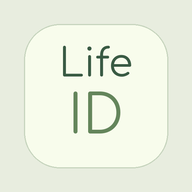
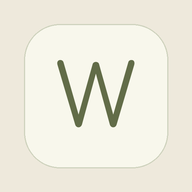
Rename Woman and simplify blurred navigation with compact orange affirmations

Changed region(s): [[0.2812, 0.2188, 0.7188, 0.7188]]

diff --git a/index.html b/index.html
@@ -1,6 +1,6 @@
 <!doctype html>
-<html lang="ru"><head><meta charset="utf-8"><meta name="viewport" content="width=device-width, initial-scale=1, viewport-fit=cover"><meta name="theme-color" content="#eee9dc"><meta name="description" content="Life ID — дневник заботы о себе"><link rel="manifest" href="./manifest.webmanifest"><link rel="icon" href="./icon.svg"><link rel="apple-touch-icon" href="./icon-192.png"><link rel="stylesheet" href="./style.css"><link rel="stylesheet" href="./mobile.css"><link rel="stylesheet" href="./capture.css"><link rel="stylesheet" href="./profile.css"><link rel="stylesheet" href="./aesthetic.css"><link rel="stylesheet" href="./garden.css"><link rel="stylesheet" href="./linen.css"><link rel="stylesheet" href="./wet-glass.css"><title>Life ID — подари внимание себе</title></head>
-<body><div class="app-backdrop" aria-hidden="true"><img src="./assets/olive-leaves.webp?background=23" alt="" width="1024" height="1536" fetchpriority="high" decoding="async"></div><div class="layout"><aside class="sidebar"><a class="logo brand-logo" href="#home" aria-label="Life ID — дневник">Life <span class="brand-id">ID</span></a><p class="tagline">Подари внимание себе</p><nav data-menu="profile" aria-label="Разделы профиля"><a href="#account"><span class="menu-icon" aria-hidden="true">◉</span><span>Аккаунт</span></a><a href="#settings"><span class="menu-icon" aria-hidden="true">⚙</span><span>Настройки</span></a><a href="#subscription"><span class="menu-icon" aria-hidden="true">◇</span><span>Подписка</span></a><a href="#devices"><span class="menu-icon" aria-hidden="true">⌁</span><span>Подключённые девайсы</span></a></nav><nav data-menu="diary" aria-label="Разделы дневника" hidden><a href="#profile" aria-label="Обо мне"><span data-short="Обо мне">Обо мне</span></a><a href="#home" aria-label="Мой день">◌ <span data-short="Сегодня">Мой день</span></a><a href="#cycle" aria-label="Мой цикл">✿ <span data-short="Цикл">Мой цикл</span></a><a href="#sleep" aria-label="Сон и отдых">☾ <span data-short="Сон">Сон и отдых</span></a><a href="#food" aria-label="Питание">♧ <span data-short="Питание">Питание</span></a><a href="#activity" aria-label="Активность и заметки"><span data-short="Ещё">Активность и заметки</span></a></nav><nav data-menu="library" aria-label="Разделы библиотеки" hidden><a href="#library"><span>Библиотека</span></a></nav><nav data-menu="friends" aria-label="Разделы друзей" hidden><a href="#friends"><span>Друзья</span></a></nav><div class="sidebar-note">Место, где можно<br>прислушаться к себе.<span>Твои данные остаются<br>в этом браузере.</span></div></aside>
+<html lang="ru"><head><meta charset="utf-8"><meta name="viewport" content="width=device-width, initial-scale=1, viewport-fit=cover"><meta name="theme-color" content="#eee9dc"><meta name="description" content="Woman — дневник заботы о себе"><link rel="manifest" href="./manifest.webmanifest"><link rel="icon" href="./icon.svg"><link rel="apple-touch-icon" href="./icon-192.png"><link rel="stylesheet" href="./style.css"><link rel="stylesheet" href="./mobile.css"><link rel="stylesheet" href="./capture.css"><link rel="stylesheet" href="./profile.css"><link rel="stylesheet" href="./aesthetic.css"><link rel="stylesheet" href="./garden.css"><link rel="stylesheet" href="./linen.css"><link rel="stylesheet" href="./clear-glass.css"><title>Woman — подари внимание себе</title></head>
+<body><div class="app-backdrop" aria-hidden="true"><img src="./assets/olive-leaves.webp?background=23" alt="" width="1024" height="1536" fetchpriority="high" decoding="async"></div><div class="layout"><aside class="sidebar"><a class="logo brand-logo" href="#home" aria-label="Woman — дневник">Woman</a><p class="tagline">Подари внимание себе</p><nav data-menu="profile" aria-label="Разделы профиля"><a href="#account"><span class="menu-icon" aria-hidden="true">◉</span><span>Аккаунт</span></a><a href="#settings"><span class="menu-icon" aria-hidden="true">⚙</span><span>Настройки</span></a><a href="#subscription"><span class="menu-icon" aria-hidden="true">◇</span><span>Подписка</span></a><a href="#devices"><span class="menu-icon" aria-hidden="true">⌁</span><span>Подключённые девайсы</span></a></nav><nav data-menu="diary" aria-label="Разделы дневника" hidden><a href="#profile" aria-label="Обо мне"><span data-short="Обо мне">Обо мне</span></a><a href="#home" aria-label="Мой день">◌ <span data-short="Сегодня">Мой день</span></a><a href="#cycle" aria-label="Мой цикл">✿ <span data-short="Цикл">Мой цикл</span></a><a href="#sleep" aria-label="Сон и отдых">☾ <span data-short="Сон">Сон и отдых</span></a><a href="#food" aria-label="Питание">♧ <span data-short="Питание">Питание</span></a><a href="#activity" aria-label="Активность и заметки"><span data-short="Ещё">Активность и заметки</span></a></nav><nav data-menu="library" aria-label="Разделы библиотеки" hidden><a href="#library"><span>Библиотека</span></a></nav><nav data-menu="friends" aria-label="Разделы друзей" hidden><a href="#friends"><span>Друзья</span></a></nav><div class="sidebar-note">Место, где можно<br>прислушаться к себе.<span>Твои данные остаются<br>в этом браузере.</span></div></aside>
 <main><header><time id="today"></time><span class="badge" id="connection">На связи</span></header><section data-main-view="diary" id="profile" class="card profile-card"><h1>Обо мне</h1>
 <form id="profile-form" class="profile-sections">
 <div class="profile-basics"><div class="profile-fields profile-basic-fields"><label class="about-label">Имя<input id="profile-name" maxlength="60" required autocomplete="given-name"></label><div class="birth-group" role="group" aria-labelledby="birth-label"><span id="birth-label" class="about-label">Дата рождения</span><input id="profile-birthDate" type="hidden"><div class="birth-parts">
@@ -20,7 +20,7 @@
 <p class="fine">Фертильность нельзя определить по календарю или регулярности менструаций. Эти сведения не обозначают «безопасные дни» и не подходят для контрацепции. При отсутствии менструаций или изменениях цикла нужна консультация с врачом.</p><p id="profile-cycle-note" class="fine"></p></div></fieldset>
 <fieldset class="profile-group"><legend>Тело</legend><div id="profile-body-fields" class="profile-fields"></div><div class="profile-bmi"><span>Индекс массы тела (ИМТ)</span><output id="profile-bmi" aria-live="polite">—</output></div><p class="fine">ИМТ = вес в килограммах / рост в метрах². Это расчётный показатель без оценки «нормы»: для детей, беременности и спортсменов нужна отдельная интерпретация.</p><details class="reference-details"><summary>О показателях состава тела</summary><p class="fine">Переноси показатели из измерений, если они есть. Уровень висцерального жира зависит от шкалы прибора; значения разных приборов могут быть несопоставимы. Биоимпедансные оценки зависят от гидратации и других условий. Костная масса на весах не заменяет оценку плотности костей, а «биологический возраст» не является диагнозом. Основной обмен не равен общей потребности в калориях. Эти значения не рассчитываются автоматически.</p></details></fieldset>
 <button type="submit">Сохранить профиль</button></form><p id="profile-error" class="error" role="alert"></p><p id="profile-summary" class="fine" role="status"></p><p id="profile-advice" class="callout"></p><details class="reference-details"><summary>Источники ориентиров питания</summary><p class="fine">DRI (RDA/AI), для натрия и калия — обновление 2019 года. Это не верхние допустимые уровни и не назначения добавок. Для процентов нужны дата рождения и пол для таблиц. Для детей младше года и беременности/лактации вне возраста 14–50 лет автоматические ориентиры не рассчитываются. Вес не используется как множитель норм витаминов. Индивидуальные заболевания и назначения врача здесь не учитываются.</p><a class="text-link" href="https://ods.od.nih.gov/HealthInformation/nutrientrecommendations.aspx" target="_blank" rel="noopener">Таблицы DRI ↗</a></details></section>
-<section data-main-view="diary" id="home" class="welcome"><span class="eyebrow">Подари внимание себе</span><div class="affirmation-meta"><span>АФФИРМАЦИЯ ДНЯ</span></div><h1 id="daily-affirmation">Я достойна любви и заботы — в том числе своей собственной.</h1><p>Пусть сегодня найдётся немного времени на то, что наполняет именно тебя.</p></section>
+<section data-main-view="diary" id="home" class="welcome"><span class="eyebrow">Подари внимание себе</span><div class="affirmation-meta"><span>АФФИРМАЦИЯ ДНЯ</span></div><h1 id="daily-affirmation">Я достойна любви и заботы.</h1><p>Пусть сегодня найдётся немного времени на то, что наполняет именно тебя.</p></section>
 <div class="overview" data-main-view="diary"><a href="#cycle" class="mini pink"><span>МОЙ ЦИКЛ →</span><strong id="cycle-summary">Познакомимся?</strong><p id="cycle-sub">Отметь начало последней менструации</p></a><a href="#sleep" class="mini lavender"><span>СОН И ОТДЫХ →</span><strong id="sleep-summary">Время отдохнуть</strong><p id="sleep-sub">Ночной сон и маленькие паузы днём</p></a><a href="#food" class="mini green"><span>ПИТАНИЕ →</span><strong id="food-summary">Забота в тарелке</strong><p>Питательные вещества, а не строгие правила</p></a></div>
 <section data-main-view="diary" id="cycle" class="section"><div class="section-title"><div><span class="eyebrow">01 / ПРИСЛУШАТЬСЯ К ТЕЛУ</span><h2>Мой цикл</h2></div><span class="pill">Каждый цикл индивидуален</span></div><div class="cycle-grid"><article class="card"><div class="calendar-title"><button id="prev-month" aria-label="Предыдущий месяц" class="icon-button">←</button><h3 id="month-title"></h3><button id="next-month" aria-label="Следующий месяц" class="icon-button">→</button></div><div class="weekdays" aria-hidden="true"><span>ПН</span><span>ВТ</span><span>СР</span><span>ЧТ</span><span>ПТ</span><span>СБ</span><span>ВС</span></div><div id="calendar" class="calendar" aria-label="Календарь цикла"></div><div class="legend"><span><i class="menstrual"></i>Менструация</span><span><i class="follicular"></i>Фолликулярная</span><span><i class="ovulation"></i>Овуляция ≈</span><span><i class="luteal"></i>Лютеиновая</span></div><p class="fine">Цвета — расчётная схема, а не подтверждение фаз. Менструация биологически входит в фолликулярную фазу.</p></article><article class="card phase-card"><span class="eyebrow" id="selected-date"></span><h3 id="phase-title">У каждого тела свой ритм</h3><p id="phase-description">Добавь дату начала менструации. Здесь появятся примерный день цикла и мягкие подсказки.</p><div id="phase-tips"></div><div class="callout">Прогноз по датам не подтверждает овуляцию и не подходит для контрацепции. При нерегулярном цикле, беременности и гормональной контрацепции он может быть неприменим.</div></article></div>
 <article class="card settings"><form id="cycle-form"><label>Начало менструации<input id="period-start" type="date" required></label><label>Обычная длина цикла, дней<input id="cycle-length" type="number" min="21" max="45" value="28" required></label><label>Менструация, дней<input id="period-length" type="number" min="1" max="10" value="5" required></label><button type="submit">Отметить начало</button></form><p class="fine">Настройки прогноза: цикл 21–45 дней, менструация до 10 дней. Это диапазон модели, а не оценка здоровья. При сильной боли или необычно обильном кровотечении обратись за медицинской помощью.</p><div id="period-history" class="history"></div></article></section>
@@ -39,4 +39,4 @@
 <section id="devices" class="section card view-panel" data-main-view="profile" hidden><h2>Подключённые девайсы</h2><div class="empty-view"><span class="empty-symbol" aria-hidden="true">⌁</span><h3>Здесь будут твои устройства</h3><p>Подключение часов, фитнес-браслетов и умных весов пока не доступно. Автоматический импорт измерений ещё не подключён.</p></div><a class="text-link" href="#profile">Внести показатели тела вручную →</a></section>
 <section id="library" class="section card view-panel" data-main-view="library" hidden><span class="eyebrow">УЗНАВАТЬ И ПОНИМАТЬ СЕБЯ</span><h2>Библиотека</h2><div class="empty-view"><span class="empty-symbol" aria-hidden="true">▤</span><h3>Место для полезных материалов</h3><p>Библиотека пока пуста. Здесь появятся материалы о питании, сне и самочувствии.</p></div></section>
 <section id="friends" class="section card view-panel" data-main-view="friends" hidden><span class="eyebrow">РЯДОМ ДРУГ С ДРУГОМ</span><h2>Друзья</h2><div class="empty-view"><span class="empty-symbol" aria-hidden="true">♧</span><h3>Твоё пространство общения</h3><p>Раздел подготовлен. Добавление друзей и общение пока недоступны.</p></div></section>
-<footer><span>Life ID. С вниманием к себе.</span><button id="export-data" class="secondary">Скачать мои данные</button><button id="install" class="secondary" hidden>Установить приложение</button></footer><details class="privacy-details"><summary>Приватность и ограничения</summary><p class="privacy">Это первая версия дневника, не медицинский сервис. Записи дневника не отправляются на сервер и не синхронизируются. При поиске в Open Food Facts передаётся только поисковый запрос. При голосовом вводе браузер может передавать звук своему сервису распознавания; приложение не хранит аудио. Очистка браузера удалит записи — сохраняй резервную копию. Не используй общий профиль браузера для личных данных.</p></details><p id="notice" class="error" role="status"></p></main></div><nav class="bottom-nav" aria-label="Основная навигация"><a href="#account" data-view="profile"><svg viewBox="0 0 24 24" aria-hidden="true"><circle cx="12" cy="7" r="4"/><path d="M4 22v-3a8 8 0 0 1 16 0v3"/></svg><span>Профиль</span></a><a href="#home" data-view="diary"><svg viewBox="0 0 24 24" aria-hidden="true"><path d="M6 3h13v18H6a3 3 0 0 1-3-3V6a3 3 0 0 1 3-3ZM6 3v18M10 8h5M10 12h5"/></svg><span>Дневник</span></a><a href="#capture" data-view="capture" class="capture-tab"><svg viewBox="0 0 24 24" aria-hidden="true"><rect x="9" y="2" width="6" height="12" rx="3"/><path d="M5 10v2a7 7 0 0 0 14 0v-2M12 19v3M8 22h8"/></svg><span>Голосовая запись</span></a><a href="#library" data-view="library"><svg viewBox="0 0 24 24" aria-hidden="true"><path d="M3 4h6a5 5 0 0 1 3 1 5 5 0 0 1 3-1h6v16h-6a5 5 0 0 0-3 1 5 5 0 0 0-3-1H3ZM12 5v16"/></svg><span>Библиотека</span></a><a href="#friends" data-view="friends"><svg viewBox="0 0 24 24" aria-hidden="true"><circle cx="9" cy="7" r="3"/><path d="M2 21v-3a7 7 0 0 1 14 0v3M16 4a3 3 0 0 1 0 6M18 14a5 5 0 0 1 4 5v2"/></svg><span>Друзья</span></a></nav><script src="./profile-model.js" defer></script><script src="./profile.js" defer></script><script src="./norms.js" defer></script><script src="./app.js" defer></script><script src="./profile-parser.js" defer></script><script src="./capture-parser.js" defer></script><script src="./voice.js" defer></script><script src="./capture.js" defer></script><script src="./daily-affirmation.js" defer></script><script src="./navigation.js" defer></script></body></html>
+<footer><span>Woman. С вниманием к себе.</span><button id="export-data" class="secondary">Скачать мои данные</button><button id="install" class="secondary" hidden>Установить приложение</button></footer><details class="privacy-details"><summary>Приватность и ограничения</summary><p class="privacy">Это первая версия дневника, не медицинский сервис. Записи дневника не отправляются на сервер и не синхронизируются. При поиске в Open Food Facts передаётся только поисковый запрос. При голосовом вводе браузер может передавать звук своему сервису распознавания; приложение не хранит аудио. Очистка браузера удалит записи — сохраняй резервную копию. Не используй общий профиль браузера для личных данных.</p></details><p id="notice" class="error" role="status"></p></main></div><nav class="bottom-nav" aria-label="Основная навигация"><a href="#account" data-view="profile"><svg viewBox="0 0 24 24" aria-hidden="true"><circle cx="12" cy="7" r="4"/><path d="M4 22v-3a8 8 0 0 1 16 0v3"/></svg><span>Профиль</span></a><a href="#home" data-view="diary"><svg viewBox="0 0 24 24" aria-hidden="true"><path d="M6 3h13v18H6a3 3 0 0 1-3-3V6a3 3 0 0 1 3-3ZM6 3v18M10 8h5M10 12h5"/></svg><span>Дневник</span></a><a href="#capture" data-view="capture" class="capture-tab"><svg viewBox="0 0 24 24" aria-hidden="true"><rect x="9" y="2" width="6" height="12" rx="3"/><path d="M5 10v2a7 7 0 0 0 14 0v-2M12 19v3M8 22h8"/></svg><span>Голосовая запись</span></a><a href="#library" data-view="library"><svg viewBox="0 0 24 24" aria-hidden="true"><path d="M3 4h6a5 5 0 0 1 3 1 5 5 0 0 1 3-1h6v16h-6a5 5 0 0 0-3 1 5 5 0 0 0-3-1H3ZM12 5v16"/></svg><span>Библиотека</span></a><a href="#friends" data-view="friends"><svg viewBox="0 0 24 24" aria-hidden="true"><circle cx="9" cy="7" r="3"/><path d="M2 21v-3a7 7 0 0 1 14 0v3M16 4a3 3 0 0 1 0 6M18 14a5 5 0 0 1 4 5v2"/></svg><span>Друзья</span></a></nav><script src="./profile-model.js" defer></script><script src="./profile.js" defer></script><script src="./norms.js" defer></script><script src="./app.js" defer></script><script src="./profile-parser.js" defer></script><script src="./capture-parser.js" defer></script><script src="./voice.js" defer></script><script src="./capture.js" defer></script><script src="./daily-affirmation.js" defer></script><script src="./navigation.js" defer></script></body></html>

diff --git a/daily-affirmation.js b/daily-affirmation.js
@@ -2,37 +2,37 @@
 'use strict';
 (() => {
  const phrases=Object.freeze([
- 'Я достойна любви и заботы — в том числе своей собственной.',
- 'Я могу выбирать свой ритм и бережно относиться к себе.',
- 'Моя ценность не зависит от того, сколько я успела сегодня.',
- 'Я разрешаю себе отдыхать и восстанавливать силы.',
- 'Я учусь слышать своё тело с вниманием и добротой.',
- 'Мне не нужно быть идеальной, чтобы любить себя.',
- 'Я могу говорить о своих потребностях и просить поддержки.',
- 'Сегодня я выбираю быть на своей стороне.',
- 'Моим чувствам есть место, и я могу относиться к ним бережно.',
- 'Я заслуживаю уважения — и от других, и от себя.',
- 'Я могу заботиться о себе маленькими шагами.',
- 'Моё тело заслуживает заботы без сравнений и критики.',
- 'Я разрешаю себе меняться и узнавать себя заново.',
- 'Я могу поставить паузу и спросить себя: что мне сейчас нужно?',
- 'Я благодарна себе за каждый шаг навстречу своему благополучию.',
- 'Мне можно выбирать то, что поддерживает именно меня.',
- 'Я могу быть мягкой к себе и уверенной в своих границах.',
- 'Я принимаю себя не только в сильные, но и в уязвимые дни.',
- 'Я оставляю место для радости в своём обычном дне.',
- 'Сегодня достаточно одного доброго поступка по отношению к себе.',
- 'Я имею право на своё пространство, время и тишину.',
- 'Я могу замечать свои достижения без обесценивания.',
- 'Я достойна заботы на каждом этапе своей жизни.',
- 'Я выбираю поддерживать себя добрыми словами.',
- 'Я могу отпускать ожидания, которые мне больше не подходят.',
- 'Я разрешаю себе получать удовольствие от простых вещей.',
- 'У меня есть право сказать «нет» и сохранить свои силы.',
- 'Я могу идти своим путём, не сравнивая его с чужим.',
- 'Моё внимание к себе — ценно, даже если это всего несколько минут.',
- 'Я заслуживаю отношений с собой, в которых есть тепло.',
- 'Сегодня я могу начать с заботы, а не с требований к себе.'
+ 'Я достойна любви и заботы.',
+ 'Я выбираю свой ритм.',
+ 'Моя ценность — во мне.',
+ 'Мне можно отдыхать.',
+ 'Я слышу своё тело.',
+ 'Мне можно быть собой.',
+ 'Я могу просить поддержки.',
+ 'Я на своей стороне.',
+ 'Мои чувства важны.',
+ 'Я заслуживаю уважения.',
+ 'Я забочусь о себе.',
+ 'Моё тело достойно заботы.',
+ 'Мне можно меняться.',
+ 'Я выбираю бережность.',
+ 'Я благодарна себе.',
+ 'Я выбираю то, что мне близко.',
+ 'Моя мягкость — моя сила.',
+ 'Я принимаю себя разной.',
+ 'Я оставляю место радости.',
+ 'Сегодня я добра к себе.',
+ 'Мне можно выбирать тишину.',
+ 'Мои достижения важны.',
+ 'Я достойна заботы всегда.',
+ 'Я говорю с собой по-доброму.',
+ 'Я отпускаю чужие ожидания.',
+ 'Я замечаю простые радости.',
+ 'Мои границы важны.',
+ 'Я иду своим путём.',
+ 'Моё внимание к себе ценно.',
+ 'Я отношусь к себе с теплом.',
+ 'Я выбираю заботу о себе.'
  ]);
  function dayKey(date){return `${date.getFullYear()}-${String(date.getMonth()+1).padStart(2,'0')}-${String(date.getDate()).padStart(2,'0')}`;}
  function forDate(date){const n=Math.floor(Date.UTC(date.getFullYear(),date.getMonth(),date.getDate())/86400000);return phrases[((n%phrases.length)+phrases.length)%phrases.length];}

diff --git a/clear-glass.css b/clear-glass.css
@@ -1,0 +1,9 @@
+/* Woman: a blurred piece of the actual background, without drops or a milky panel. */
+:root{--affirmation-orange:#c85c18;--muted:#424a35}
+.sidebar{position:sticky;background:transparent;border:0;box-shadow:none;backdrop-filter:blur(28px);-webkit-backdrop-filter:blur(28px);color:#fffdf0;isolation:isolate}.sidebar:before,.sidebar:after{display:none;content:none}.sidebar .logo.brand-logo{font-family:Nunito,Arial,sans-serif;font-size:36px;font-weight:500;letter-spacing:-1px;color:#fffdf0;text-shadow:0 1px 4px #162012bf}.sidebar .tagline{font-family:Nunito,Arial,sans-serif;font-size:12px;font-weight:650;letter-spacing:.02em;line-height:1.6;text-transform:none;color:#fffdf0;text-shadow:0 1px 3px #172013}.sidebar nav a{font-size:16px;color:#fffdf0;border-color:transparent}.sidebar nav a span:not(.menu-icon){font-size:14px;font-weight:650;color:inherit}.sidebar nav a.active{background:#ffffe51f;color:#fffef2;border-color:#ffffef5c;box-shadow:none}.sidebar nav a:hover{background:#ffffe51a}.sidebar nav a:not(.active){text-shadow:0 1px 3px #14200f}.sidebar-note,.sidebar-note span{color:#fffdf0;text-shadow:0 1px 3px #172013}
+body main>header,body[data-view=profile] main>header,body[data-section=profile] main>header{position:relative;display:flex;align-items:center;justify-content:space-between;flex-wrap:wrap;gap:8px 16px;background:transparent;border:0;border-radius:0;box-shadow:none;backdrop-filter:none;-webkit-backdrop-filter:none;padding:8px 2px;margin:0 0 18px}body main>header:before,body main>header:after{display:none;content:none}#today{color:var(--affirmation-orange);font-size:16px;line-height:1.6;font-weight:800;letter-spacing:.01em;text-shadow:0 1px 2px #111a0c,0 0 5px #ffb568,0 0 12px #ff922b99,0 0 23px #f18e2c66}#connection{background:transparent;border:0;box-shadow:none;padding:5px 0;color:#fffef0;font-size:12px;font-weight:750;white-space:nowrap;text-shadow:0 1px 3px #172013}#connection:before{color:#cad9a5;text-shadow:0 0 5px #c8e4a6}
+.fine,.muted,.privacy,.profile-card .fine,.reference-details>summary,.privacy-details>summary{font-size:14px;line-height:1.75;color:var(--muted)}label,.profile-group label{font-weight:600;line-height:1.5;color:#404b31}.profile-card .about-label,.profile-card .profile-group>legend{font-weight:700;color:#354229}.welcome p,.mini p,.phase-card>p,.tip p{font-size:15px;line-height:1.7;color:#424a35}.mini>span,.eyebrow{font-weight:700}.mini.green p,.mini.green>span{color:#fffdf2}.voice-card>summary{font-weight:700}.voice-body .fine,.voice-privacy{font-size:14px!important;color:#424a35}.nutrient-label{font-size:15px;color:#35472c}.nutrient-note,.nutrient-source,.nutrient-subtype{font-size:13px;color:#485539}.record{font-size:15px}.bottom-nav a span{font-weight:750}
+#home #daily-affirmation{font-family:'Cormorant Garamond',Georgia,serif;font-style:italic;font-size:clamp(30px,3.1vw,43px);font-weight:500;line-height:1.22;letter-spacing:.01em;color:var(--affirmation-orange);text-shadow:none;-webkit-text-stroke:0;margin:20px 0 22px;max-width:38ch;text-wrap:balance;overflow-wrap:normal;word-break:normal}.affirmation-meta>span{font-size:11px;font-weight:750;color:#434f32;letter-spacing:.12em}.affirmation-meta{margin-top:22px}
+@media(max-width:767px),(max-width:1023px) and (pointer:coarse){.sidebar{position:sticky;background:transparent;border:0}.sidebar .logo.brand-logo{font-size:29px}.sidebar .tagline{display:none}.sidebar nav a{font-size:0}.sidebar nav a span:not(.menu-icon){font-size:13px;font-weight:700}.sidebar nav[data-menu=diary] a span:not(.menu-icon){font-size:0}.sidebar nav[data-menu=diary] a span:after{font-size:13px}.sidebar nav[data-menu=profile] a span{font-size:13px}#today{font-size:14px;letter-spacing:0}#connection{font-size:11px}.fine,.muted,.privacy,.profile-card .fine{font-size:14px}.welcome p,.mini p{font-size:14px}#home #daily-affirmation{font-size:30px;line-height:1.22;letter-spacing:0;max-width:none;margin:19px 0 21px}.affirmation-meta>span{font-size:10px}}
+@supports not (backdrop-filter:blur(1px)){.sidebar{background:#263021e6}}
+@media(prefers-reduced-transparency:reduce){.sidebar{background:#263021;backdrop-filter:none;-webkit-backdrop-filter:none}}

diff --git a/sw.js b/sw.js
@@ -1,5 +1,5 @@
-const CACHE='luna-diary-v24';
-const ASSETS=['./','./index.html','./style.css','./mobile.css','./capture.css','./profile.css','./aesthetic.css','./garden.css','./linen.css','./wet-glass.css','./assets/water-droplets.svg','./assets/linen-olive.webp','./assets/olive-leaves.webp','./assets/olive-leaves.webp?background=23','./assets/fonts/CormorantGaramond-Italic.woff','./daily-affirmation.js','./assets/garden-spa.webp','./assets/fonts/Nunito.woff','./assets/fonts/Comfortaa.ttf','./assets/fonts/Caveat.woff','./assets/mineral-landscape.svg','./assets/fonts/Manrope.woff','./assets/fonts/CormorantGaramond.woff','./profile-model.js','./profile.js','./capture-parser.js','./capture.js','./app.js','./voice.js','./navigation.js','./profile-parser.js','./norms.js','./manifest.webmanifest','./icon.svg','./icon-192.png','./icon-512.png'];
+const CACHE='luna-diary-v25';
+const ASSETS=['./','./index.html','./style.css','./mobile.css','./capture.css','./profile.css','./aesthetic.css','./garden.css','./linen.css','./clear-glass.css','./assets/linen-olive.webp','./assets/olive-leaves.webp','./assets/olive-leaves.webp?background=23','./assets/fonts/CormorantGaramond-Italic.woff','./daily-affirmation.js','./assets/garden-spa.webp','./assets/fonts/Nunito.woff','./assets/fonts/Comfortaa.ttf','./assets/fonts/Caveat.woff','./assets/mineral-landscape.svg','./assets/fonts/Manrope.woff','./assets/fonts/CormorantGaramond.woff','./profile-model.js','./profile.js','./capture-parser.js','./capture.js','./app.js','./voice.js','./navigation.js','./profile-parser.js','./norms.js','./manifest.webmanifest','./icon.svg','./icon-192.png','./icon-512.png'];
 self.addEventListener('install',event=>{event.waitUntil(caches.open(CACHE).then(cache=>cache.addAll(ASSETS.map(path=>new Request(new URL(path,self.location.href),{cache:'reload'})))).then(()=>self.skipWaiting()));});
 self.addEventListener('activate',event=>{event.waitUntil(caches.keys().then(keys=>Promise.all(keys.filter(key=>(key.startsWith('little-steps-')||key.startsWith('luna-diary-'))&&key!==CACHE).map(key=>caches.delete(key)))).then(()=>self.clients.claim()));});
 // Refresh the document online; keep a complete local fallback for offline navigation.

diff --git a/app.js b/app.js
@@ -184,7 +184,7 @@ for(const ml of [100,200,250,300,500]){const button=textEl('button',ml+' мл');
 $('#water-container').onchange=()=>{const type=$('#water-container').value;state.waterSettings.container=type;$('#water-volume').value=state.waterSettings[type];save();};$('#water-volume').onchange=rememberWaterVolume;
 $('#water-form').onsubmit=e=>{e.preventDefault();const ml=Number($('#water-volume').value),container=$('#water-container').value,date=$('#food-date').value;if(!date||!Number.isInteger(ml)||ml<1||ml>10000)return;state.waterSettings.container=container;state.waterSettings[container]=ml;state.water.push({id:crypto.randomUUID(),date,ml,container});save();};
 
-$('#export-data').onclick=()=>{const url=URL.createObjectURL(new Blob([JSON.stringify(state,null,2)],{type:'application/json'}));const a=document.createElement('a');a.href=url;a.download=`life-id-diary-${today}.json`;a.click();setTimeout(()=>URL.revokeObjectURL(url),1000);};
+$('#export-data').onclick=()=>{const url=URL.createObjectURL(new Blob([JSON.stringify(state,null,2)],{type:'application/json'}));const a=document.createElement('a');a.href=url;a.download=`woman-diary-${today}.json`;a.click();setTimeout(()=>URL.revokeObjectURL(url),1000);};
 function connection(){$('#connection').textContent=navigator.onLine?'На связи':'Без интернета';}window.addEventListener('online',connection);window.addEventListener('offline',connection);connection();
 let prompt;window.addEventListener('beforeinstallprompt',e=>{e.preventDefault();prompt=e;$('#install').hidden=false;});$('#install').onclick=async()=>{if(prompt){await prompt.prompt();prompt=null;$('#install').hidden=true;}};
 function updateNavigation(){window.LunaNavigation?.refresh();}window.addEventListener('hashchange',updateNavigation);

diff --git a/tests/woman_style_smoke.py b/tests/woman_style_smoke.py
@@ -1,0 +1,24 @@
+"""Woman brand, no droplets, transparent navigation and compact daily phrases."""
+from playwright.sync_api import sync_playwright,expect
+import os,json
+URL=os.environ.get('LUNA_TEST_URL','http://127.0.0.1:8024/Test/')
+with sync_playwright() as p:
+ b=p.chromium.launch(executable_path='/usr/bin/chromium',args=['--no-sandbox']);ctx=b.new_context(viewport={'width':390,'height':844},is_mobile=True,has_touch=True,locale='ru-RU',timezone_id='Europe/Podgorica');page=ctx.new_page();errors=[];page.on('pageerror',lambda e:errors.append(str(e)));page.goto(URL+'#home');page.wait_for_function('navigator.serviceWorker.controller!==null');page.evaluate('document.fonts.ready')
+ assert page.title()=='Woman — подари внимание себе' and page.locator('.logo').text_content()=='Woman'
+ assert page.evaluate('fetch("./manifest.webmanifest").then(r=>r.json()).then(m=>m.name==="Woman"&&m.short_name==="Woman"&&m.id==="./")')
+ assert page.locator('[href*=wet-glass]').count()==0
+ styles=page.evaluate('''()=>{const side=getComputedStyle(document.querySelector('.sidebar')),header=getComputedStyle(document.querySelector('main>header')),text=getComputedStyle(document.querySelector('#daily-affirmation')),date=getComputedStyle(document.querySelector('#today'));return {sideBg:side.backgroundColor,headerBg:header.backgroundColor,blur:side.backdropFilter,textShadow:text.textShadow,dateShadow:date.textShadow,color:text.color,dateColor:date.color,drop:getComputedStyle(document.querySelector('.sidebar'),'::before').content}}''')
+ assert styles['sideBg']=='rgba(0, 0, 0, 0)' and styles['headerBg']=='rgba(0, 0, 0, 0)',styles
+ assert 'blur' in styles['blur'] and styles['textShadow']=='none' and styles['dateShadow']!='none'
+ assert styles['color']==styles['dateColor'] and styles['drop'] in ['none','normal']
+ original=page.locator('#daily-affirmation').inner_text()
+ for width in [320,375,390,430,768,1280]:
+  page.set_viewport_size({'width':width,'height':900});page.evaluate('document.fonts.ready')
+  failures=page.evaluate('''()=>{const e=document.getElementById('daily-affirmation'),bad=[];for(let i=1;i<=31;i++){e.textContent=LifeAffirmation.forDate(new Date(2026,0,i,12));const h=parseFloat(getComputedStyle(e).lineHeight);if(e.getBoundingClientRect().height>h*2+2||e.scrollWidth>e.clientWidth+1)bad.push(e.textContent)}return bad}''')
+  assert not failures,(width,failures)
+  assert page.evaluate('document.documentElement.scrollWidth<=innerWidth'),width
+ page.locator('#daily-affirmation').evaluate('(e,t)=>e.textContent=t',original)
+ page.set_viewport_size({'width':390,'height':844});page.evaluate('scrollTo({top:0,behavior:"instant"})');page.screenshot(path='/tmp/luna-check/woman-mobile.png')
+ page.locator('.bottom-nav [data-view="profile"]').click();expect(page.locator('#account')).to_be_visible();assert page.locator('[data-menu="profile"] a span:not(.menu-icon)').all_text_contents()==['Аккаунт','Настройки','Подписка','Подключённые девайсы']
+ ctx.set_offline(True);page.reload();expect(page.locator('#account')).to_be_visible();page.locator('.bottom-nav [data-view="diary"]').click();expect(page.locator('#home')).to_be_visible();assert page.title().startswith('Woman')
+ assert not errors,errors;b.close();print('PASS: Woman identity, original PWA id, no droplets, blurred transparent sidebar, no date panel, matching orange colors, date-only glow, all 31 affirmations fit within two lines at 320–1280 px, offline/profile navigation')

diff --git a/tests/life_id_smoke.py b/tests/life_id_smoke.py
@@ -1,4 +1,4 @@
-"""Life ID identity, calendar rotation, legacy diary persistence and devices routing."""
+"""Woman identity, calendar rotation, legacy diary persistence and devices routing."""
 from playwright.sync_api import sync_playwright,expect
 from datetime import datetime,timezone
 from pathlib import Path
@@ -8,8 +8,8 @@ with sync_playwright() as p:
  b=p.chromium.launch(executable_path='/usr/bin/chromium',args=['--no-sandbox']);ctx=b.new_context(viewport={'width':390,'height':844},is_mobile=True,has_touch=True,timezone_id='Europe/Podgorica',locale='ru-RU')
  ctx.add_init_script("if(!localStorage.getItem('luna-diary-v1'))localStorage.setItem('luna-diary-v1',JSON.stringify({periods:['2026-10-20'],cycleLength:28,periodLength:5,sleep:[],meals:[{id:'old',date:'2026-11-02',product:'oats',grams:100}],profile:{name:'София',birthDate:'1996-11-02',age:30,ageUnit:'years',sex:'female',status:'none'}}))")
  page=ctx.new_page();errors=[];page.on('pageerror',lambda e:errors.append(str(e)));page.clock.install(time=datetime(2026,11,2,22,58,0,tzinfo=timezone.utc));page.goto(URL+'#home');page.wait_for_function('navigator.serviceWorker.controller!==null');page.evaluate('document.fonts.ready')
- assert page.title()=='Life ID — подари внимание себе' and page.locator('.logo').text_content()=='Life ID'
- manifest=page.evaluate('fetch("./manifest.webmanifest").then(r=>r.json())');assert manifest['name']=='Life ID' and manifest['short_name']=='Life ID' and manifest['id']=='./'
+ assert page.title()=='Woman — подари внимание себе' and page.locator('.logo').text_content()=='Woman'
+ manifest=page.evaluate('fetch("./manifest.webmanifest").then(r=>r.json())');assert manifest['name']=='Woman' and manifest['short_name']=='Woman' and manifest['id']=='./'
  assert page.locator('#home .eyebrow').text_content()=='Подари внимание себе'
  assert page.locator('#affirmation-date').count()==0 and page.locator('#today').is_visible()
  assert page.locator('#today').inner_text()=='Понедельник, 2 ноября 2026'
@@ -31,4 +31,4 @@ with sync_playwright() as p:
   page.set_viewport_size({'width':width,'height':844});assert page.evaluate('document.documentElement.scrollWidth<=innerWidth'),width
  page.set_viewport_size({'width':390,'height':844});page.evaluate('scrollTo({top:0,behavior:"instant"})');page.screenshot(path='/tmp/luna-check/life-id-home.png')
  page.locator('.bottom-nav [data-view="profile"]').click();page.locator('[data-menu="profile"] [href="#devices"]').click();page.screenshot(path='/tmp/luna-check/life-id-devices.png')
- assert not errors,errors;b.close();print('PASS: Life ID branding/manifest, daily stable affirmation, live local midnight, month/year/leap/DST dates, devices navigation and offline route, unchanged legacy data, responsive typography')
+ assert not errors,errors;b.close();print('PASS: Woman branding/manifest, daily stable affirmation, live local midnight, month/year/leap/DST dates, devices navigation and offline route, unchanged legacy data, responsive typography')

diff --git a/tests/background_smoke.py b/tests/background_smoke.py
@@ -11,7 +11,7 @@ with sync_playwright() as p:
  assert page.locator('body').evaluate('(e)=>getComputedStyle(e,"::before").display')=='none'
  page.evaluate("state.water.push({id:'background-test',date:localDate(),ml:200,container:'glass'});save()")
  # Simulate a stale cached HTML shell. Online navigation must still load the actual app.
- page.evaluate('''async()=>{const name=(await caches.keys()).find(k=>k==='luna-diary-v24');const cache=await caches.open(name);await cache.put(new URL('./index.html',location.href),new Response('<h1>Old cached page</h1>',{headers:{'Content-Type':'text/html'}}))}''')
+ page.evaluate('''async()=>{const name=(await caches.keys()).find(k=>k==='luna-diary-v25');const cache=await caches.open(name);await cache.put(new URL('./index.html',location.href),new Response('<h1>Old cached page</h1>',{headers:{'Content-Type':'text/html'}}))}''')
  page.reload();expect(page.locator('.app-backdrop img')).to_be_visible();expect(page.locator('#home')).to_be_visible()
  page.wait_for_function('''async()=>{const r=await caches.match(new URL('./index.html',location.href));return r&&(await r.text()).includes('app-backdrop')}''')
  ctx.set_offline(True);page.reload();expect(page.locator('#home')).to_be_visible();page.wait_for_function('document.querySelector(".app-backdrop img").naturalWidth>0');assert page.evaluate('state.water.some(r=>r.id==="background-test")')

diff --git a/tests/browser_smoke.py b/tests/browser_smoke.py
@@ -40,7 +40,7 @@ with sync_playwright() as p:
  page.locator('#food-date').fill(day(0));page.locator('#food-date').dispatch_event('change');assert page.locator('#food-calories').inner_text()=='758 ккал'
  print('PASS: overnight sleep, naps, mean by recorded days, overlap and invalid-range rejection, 7/30/365 days, food gram scaling and daily isolation')
  with page.expect_download() as d:page.locator('#export-data').click()
- assert d.value.suggested_filename.startswith('life-id-diary-')
+ assert d.value.suggested_filename.startswith('woman-diary-')
  ctx.set_offline(True);page.reload();assert page.locator('#connection').inner_text()=='Без интернета';assert page.locator('#sleep-average').inner_text()=='8 ч 0 мин';assert page.locator('#food-calories').inner_text()=='758 ккал'
  page.locator('#food-history button').click();assert page.locator('#food-calories').inner_text()=='0 ккал';page.reload();assert page.locator('#food-calories').inner_text()=='0 ккал'
  ctx.set_offline(False)
